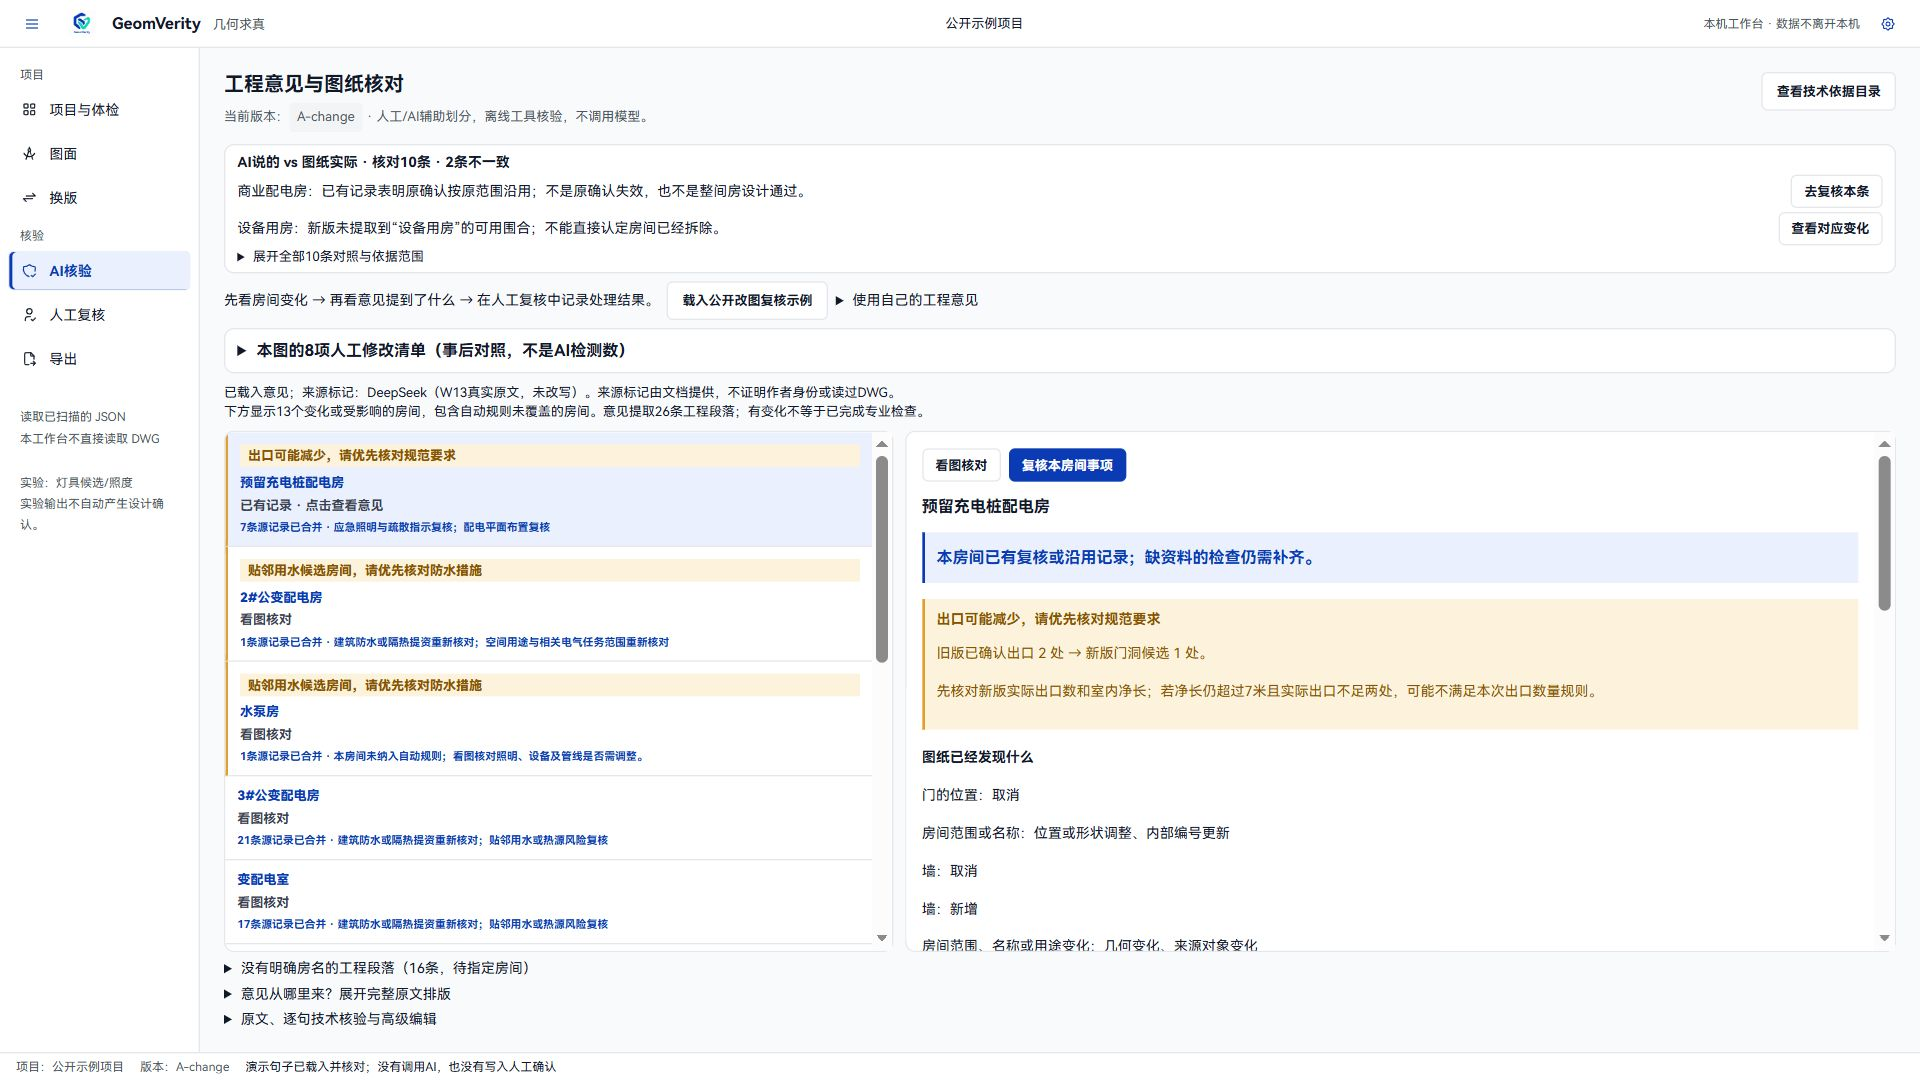
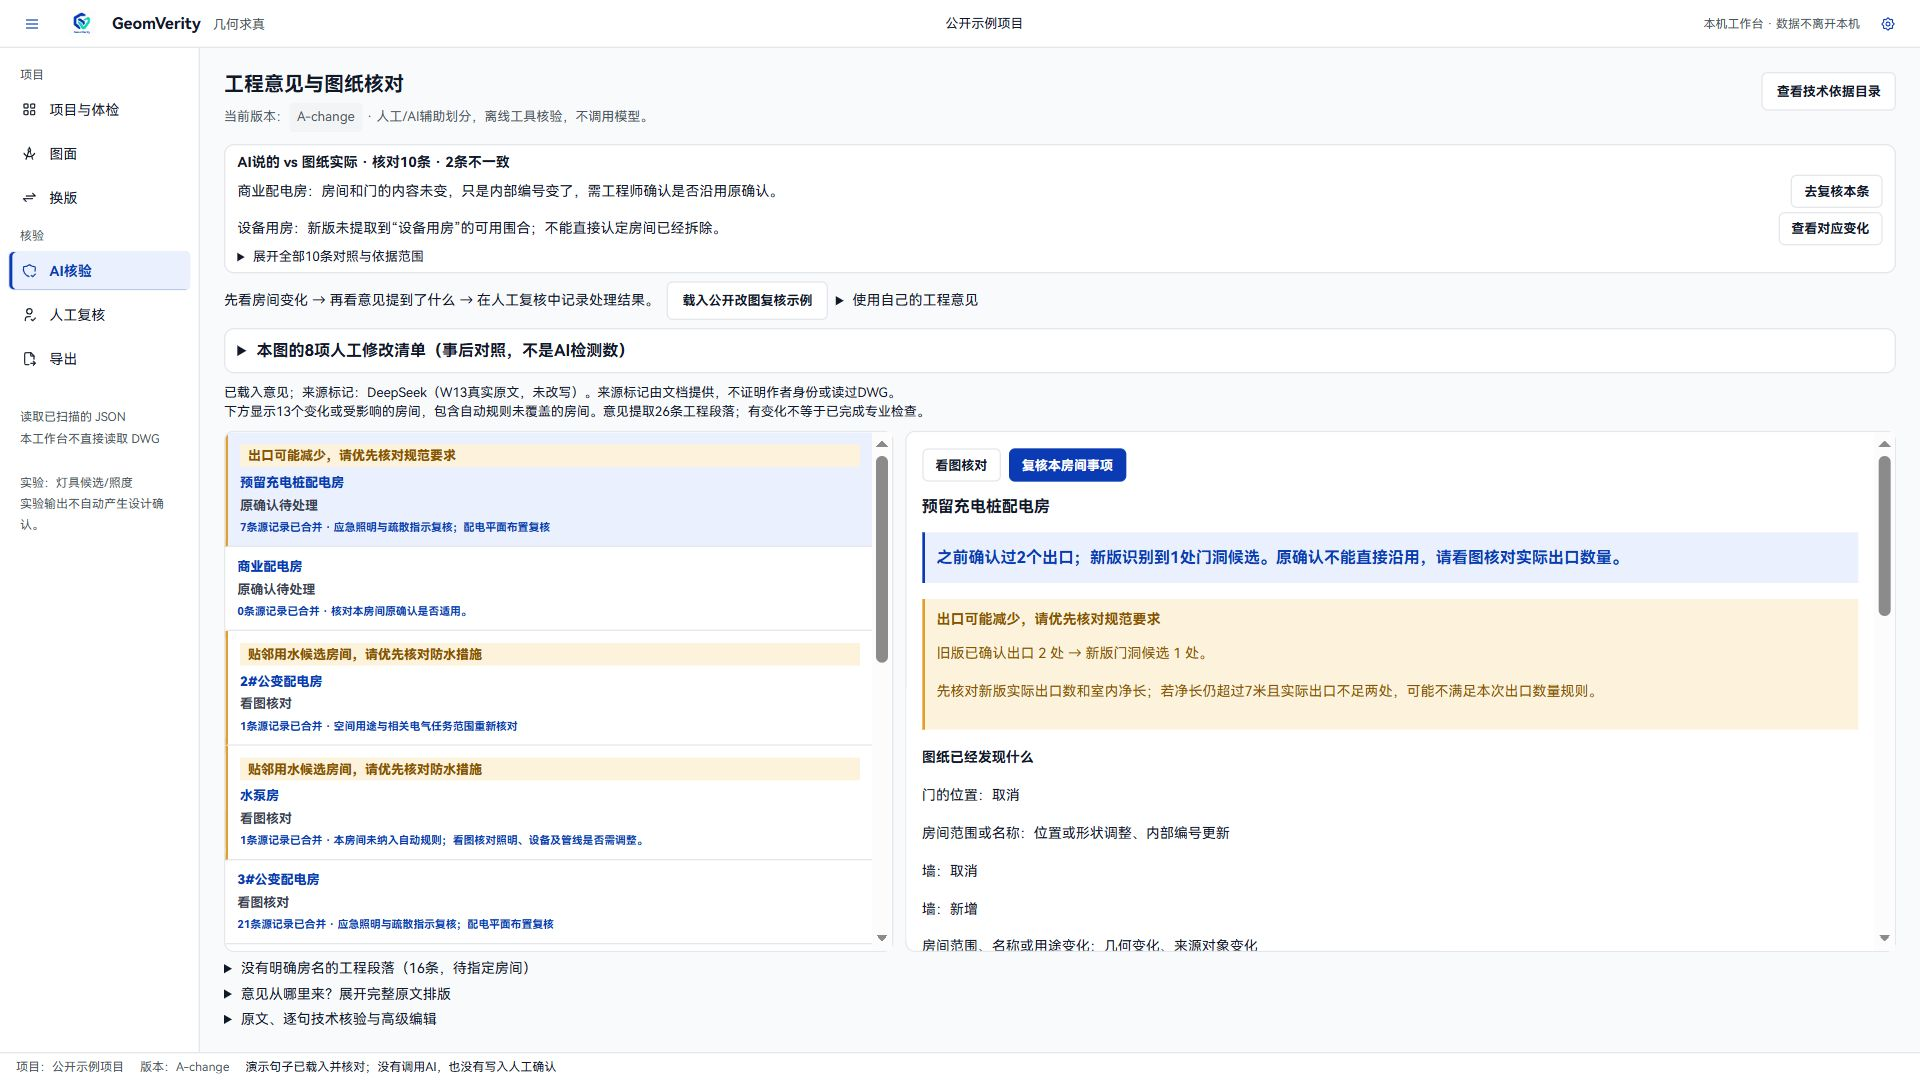
补齐最终比赛包四张发布实拍

diff --git a/README.md b/README.md
@@ -2,7 +2,7 @@
 
 工程 AI 成果可追溯与多层核验：在本机对照 CAD 扫描、版本变化与工程意见，让工程师看图复核并记录处理依据。
 
-[下载程序（Release）](https://github.com/paigu3571/GeomVerity/releases/tag/v0.4.0-beta.1) ｜ [演示视频（待录制）](#演示视频) ｜ [使用文档](docs/README.md)
+下载程序（[GitHub](https://github.com/paigu3571/GeomVerity/releases/tag/v0.4.0-beta.1)｜[Gitee](https://gitee.com/xiangle7/geom-verity/releases)） ｜ [演示视频（待录制）](#演示视频) ｜ [使用文档](docs/README.md)
 
 **打开公开示例 → 按房间看改动 → 对照 AI 意见与图纸 → 记录人工复核 → 导出证据包。**
 
@@ -12,9 +12,9 @@
 |---|---|
 | ![比赛候选包：首页](docs/images/v0.4/project.png) | ![比赛候选包：换版按房间](docs/images/v0.4/changes.png) |
 | AI 说的与图纸实际 | 同一图纸改前与改后 |
-| ![比赛候选包：AI意见对照](docs/images/v0.4/ai.png) | 改前/改后实拍待补（不使用已知灯具显示有误的旧图） |
+| ![比赛候选包：AI意见对照](docs/images/v0.4/ai.png) | ![最终比赛包：同房间改前改后](docs/images/v0.4/before-after.png) |
 
-以上三张为10/28既有比赛候选包的公开示例实拍，来源见[图片清单](docs/images/v0.4/provenance.json)。本次公开分支新包截图暂未取得，四张最终实拍仍待补，维护者已批准按当前资料发布预览版。程序条数是候选记录数，不能当作人工改动数、识别准确率或整图合规结论。
+以上四张来自本次公开分支最终比赛包的公开示例实拍，来源与摘要见[图片清单](docs/images/v0.4/provenance.json)。改前/改后由两版各自定位同一房间的实拍并列，非像素差分；实验灯具已隐藏，不代表设计审查通过。程序条数是候选记录数，不能当作人工改动数、识别准确率或整图合规结论。
 
 ## 快速开始（Windows）
 

diff --git a/docs/releases/v0.4.0-beta.1.md b/docs/releases/v0.4.0-beta.1.md
@@ -1,6 +1,6 @@
 # v0.4.0-beta.1（预览版）
 
-> 预览版。维护者于2026-10-28明确授权“可以发布”。程序ZIP及SHA-256沿用已核对候选；最终实拍、视频、原生退出及完整人工验收仍按下方清单保留，不因发布升级为通过。
+> 预览版。维护者于2026-10-28明确授权“可以发布”。程序ZIP及SHA-256沿用已核对候选；四张最终包实拍已补；视频、原生退出及完整人工验收仍按下方清单保留，不因发布升级为通过。
 
 GeomVerity把工程AI意见、图纸对象和人工复核依据放在一起，当前以CAD换版复核为验证场景。
 
@@ -27,7 +27,7 @@ ZIP SHA-256：`c6a980deb239e4e3051c270f25243ecede493f00e7c605e8396fe94db887d8b3`
 ## 未完成清单
 
 - 维护者完整试用、异机试用和专业通用性验收。隐藏原生探针两次加载成功，但70/90秒内未退出；原生窗口操作与关闭须人工核对，不能算启动/退出验收通过。
-- 本次公开分支新包四张最终实拍及维护者录制的视频；README暂用三张标明来源的既有比赛候选实拍。
+- 维护者录制的本版演示视频；README四张最终包实拍已补，完整原图和来源摘要一并保留。
 - 真实盲标、资源紧张大图性能验证。
 - 工具条收拢、导出页全面调整、矢量logo；工单同步、Agent写入审批和L4/L5受控生成。
 

diff --git a/docs/acceptance/release-0.4.md b/docs/acceptance/release-0.4.md
@@ -55,3 +55,7 @@
 ## 维护者发布授权（2026-10-28）
 
 张田在当前会话明确“可以发布，开始整吧，注意禁止把仓库设为私有”。本次按授权推进远端预发布；上方本地候选检查保留为发布前快照，尚未完成的截图、视频、原生退出和人工/异机/专业验收不因此变成通过。两端保持公开，不改仓库可见性、不强推、不移动旧标签，不更新Pages或域名站。远端结果在发布后追加。
+
+## 发布素材补齐（2026-10-28）
+
+截图服务恢复后，从本次最终EXE（摘要47bd407c4f242069932582244448edf0b2fce2cf4e5fe5d48d2ffca407960194）的公开示例重新实拍：首页、按房间换版、AI与图纸对照及同房间改前/改后。CSS视口1920×1080，单页图仅裁截图外围空白，无缩放/重绘；改前/改后图由两个原始图面区域并列并加版本标题，实验灯具隐藏，不作像素差分或实体出口确认。原始图与逐文件SHA-256见docs/images/v0.4/provenance.json；上方截图失败行是上一轮快照，本轮四张已补。没有写入人工确认，视频仍由维护者提供。
